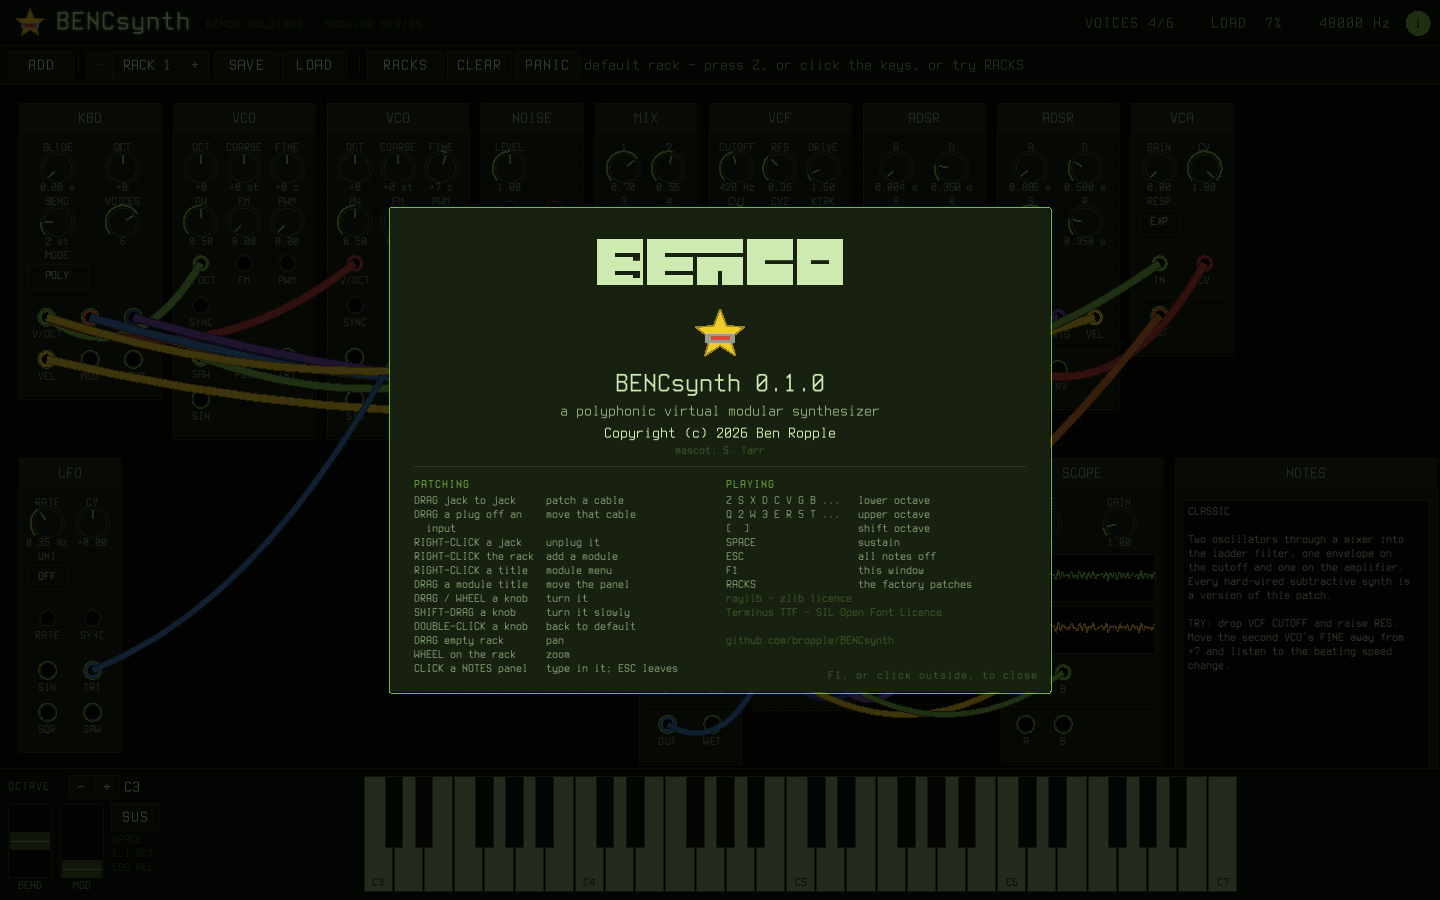
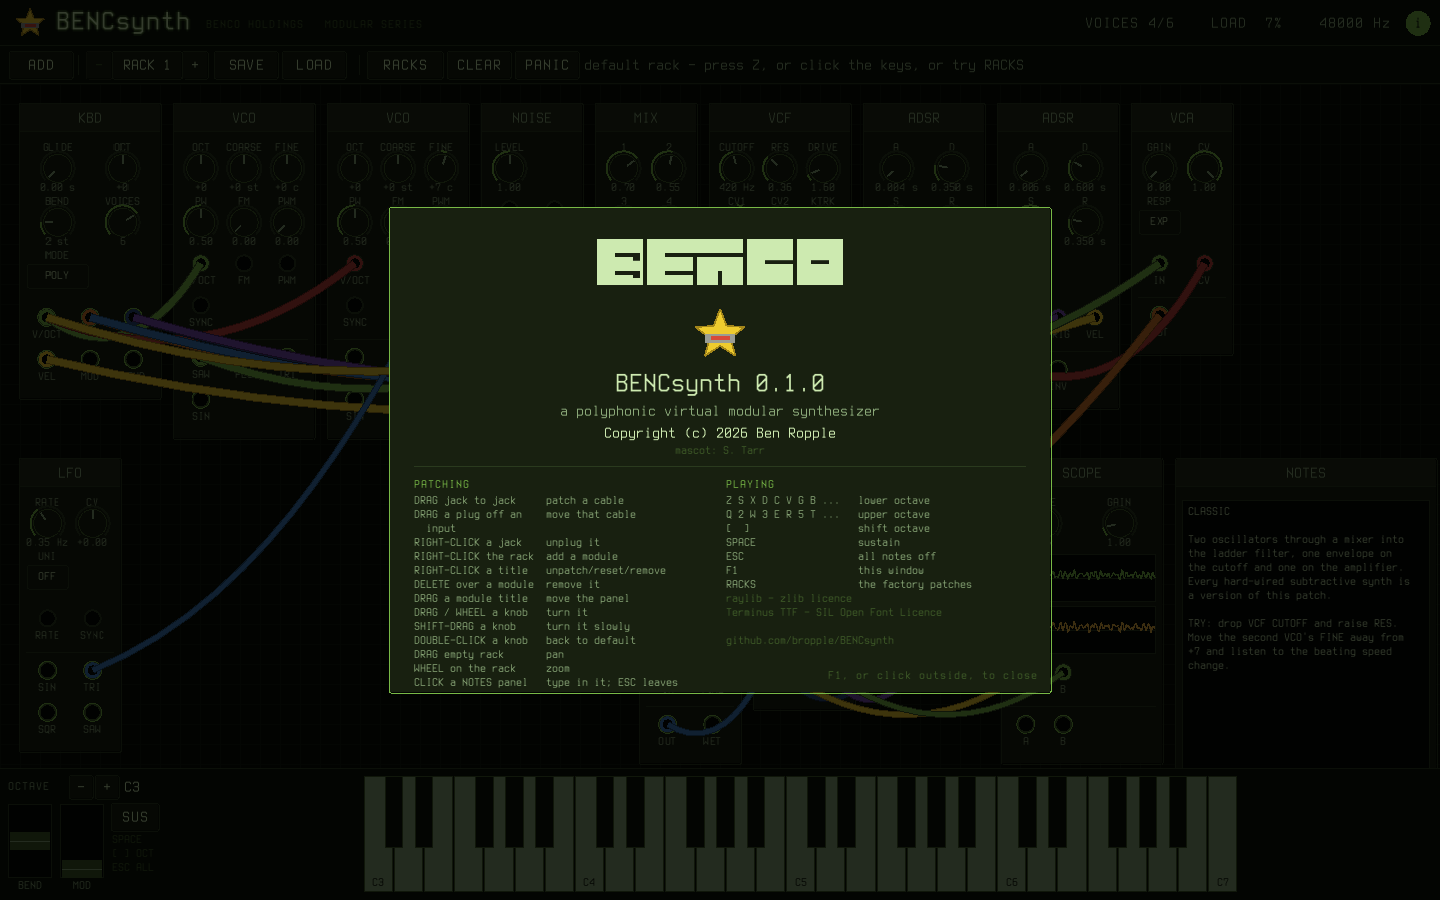
Make the right-click menus work, and add a way to delete a module
Right-clicking a module's title bar stripped its cables instead of opening a
menu. Two bugs stacked on top of each other.

The menu is opened by the right-button press, and a press is true for the whole
frame it happens on - so that same press reached bs_menu_take further down the
frame and chose from the menu it had just opened. The pointer was sitting at
the menu's own top-left corner, and (m.y - rect.y - 4) / 22 truncates from
-0.18 to 0, so it chose the first entry. On the module menu the first entry is
UNPATCH. The rack's add menu had it too, and instantly added a KBD.

Both are fixed: a menu records that it opened this frame and refuses to be
consumed until the next one, and the row calculation measures downward from the
first row's edge instead of truncating a negative toward it.

This is the third time the same shape of bug has shipped - the information
window was the other two - so it is written down in ARCHITECTURE.md now rather
than fixed again. Anything that opens on an edge must not be closed or chosen
from by that edge.

Delete now removes whatever the pointer is over. REMOVE was in the module menu
all along, but a menu is somewhere you have to think to look and the key is
what people try first.

Every gesture the help panel claims is now driven through tools/click-test.sh
and photographed rather than assumed: patching a cable, pulling a plug onto
another jack, right-clicking a jack to unplug it, the module menu and its
[…]

diff --git a/src/gui/bs_gui.cpp b/src/gui/bs_gui.cpp
@@ -734,6 +734,7 @@ void bs_menu_open(bs_ui *ui, Vector2 at, const char **items, int count, int tag)
     if (y < 4.0f) y = 4.0f;
 
     ui->menuOpen   = 1;
+    ui->menuFresh  = 1;
     ui->menuItems  = items;
     ui->menuCount  = count;
     ui->menuTag    = tag;
@@ -748,12 +749,26 @@ int bs_menu_take(bs_ui *ui, int *tag)
 {
     if (!ui->menuOpen) return -1;
 
-    const Vector2 m = bs_mouse();
+    const Vector2 m = GetMousePosition();
     ui->menuHover = -1;
-    if (CheckCollisionPointRec(m, ui->menuRect)) {
-        const int row = (int)((m.y - ui->menuRect.y - 4.0f) / (float)MENU_ROW);
-        if (row >= 0 && row < ui->menuCount) ui->menuHover = row;
+    /* Measured from the first row's top edge, and only downward. Dividing a
+     * small negative number by the row height and truncating gives zero, so a
+     * pointer just *above* the list reads as being on its first entry - which
+     * is how a right-click that opened a menu at the pointer ended up
+     * selecting the item under the pointer's own corner. */
+    const float rel = m.y - ui->menuRect.y - 4.0f;
+    if (rel >= 0.0f && CheckCollisionPointRec(m, ui->menuRect)) {
+        const int row = (int)(rel / (float)MENU_ROW);
+        if (row < ui->menuCount) ui->menuHover = row;
     }
+
+    /* A press is true for the whole frame it happens on, and the menus opened
+     * by a right-click on a panel or on the rack are opened by one - so
+     * without this, that same press reaches here further down the frame and
+     * chooses from the menu it just opened. The module menu's first entry is
+     * UNPATCH, which is why right-clicking a title bar appeared to strip its
+     * cables instead of offering anything. */
+    if (ui->menuFresh) { ui->menuFresh = 0; return -1; }
 
     if (IsMouseButtonPressed(MOUSE_BUTTON_LEFT) ||
         IsMouseButtonPressed(MOUSE_BUTTON_RIGHT)) {

diff --git a/src/gui/bs_rack.cpp b/src/gui/bs_rack.cpp
@@ -171,6 +171,8 @@ void bs_rack_init(bs_rack *r)
     r->menuRackPos = (Vector2){ 0, 0 };
     r->edited = 0;
     r->presetLoaded = -1;
+    r->deleteRequest = -1;
+    r->deleteRequest = -1;
     buildAddMenu();
     buildPresetMenu();
 }
@@ -228,6 +230,7 @@ void bs_rack_frame(bs_rack *r, bs_ui *ui, bs::Engine *eng, Rectangle view, float
 
     r->edited = 0;
     r->presetLoaded = -1;
+    r->deleteRequest = -1;
 
     if (r->zoom < 0.35f) r->zoom = 0.35f;
     if (r->zoom > 2.50f) r->zoom = 2.50f;
@@ -598,6 +601,15 @@ void bs_rack_frame(bs_rack *r, bs_ui *ui, bs::Engine *eng, Rectangle view, float
     if (r->scrollX > maxScrollX) r->scrollX = maxScrollX;
     if (r->scrollY > maxScrollY) r->scrollY = maxScrollY;
 
+    /* Delete takes out whatever the pointer is over. The module menu has a
+     * REMOVE entry and always did, but a menu is somewhere you have to think
+     * to look; the key is what people try first. Not while a scratchpad has
+     * the keyboard, where Delete means delete a character. */
+    if (overView && top >= 0 && !r->patching && ui->focus == 0 &&
+        IsKeyPressed(KEY_DELETE)) {
+        r->deleteRequest = top;
+    }
+
     /* ---- the add menu ---- */
 
     if (overView && top == -1 && hoverMod == -1 && !r->patching &&
@@ -612,6 +624,13 @@ void bs_rack_frame(bs_rack *r, bs_ui *ui, bs::Engine *eng, Rectangle view, float
 
 int bs_rack_menu(bs_rack *r, bs_ui *ui, bs::Engine *eng)
 {
+    if (r->deleteRequest >= 0) {
+        eng->removeModule(r->deleteRequest);
+        r->deleteRequest = -1;
+        r->edited = 1;
+        return 1;
+    }
+
     int tag = 0;
     const int hit = bs_menu_take(ui, &tag);
     if (hit < 0) return 0;

diff --git a/src/gui/bs_gui.h b/src/gui/bs_gui.h
@@ -90,6 +90,10 @@ typedef struct bs_ui {
     int       menuHover;
     Vector2   menuAnchor;
     int       menuTag;      /* what the menu belongs to, for the caller  */
+    /* Set on the frame a menu opens. A menu opened by a button press would
+     * otherwise be chosen from by that same press, which is still "pressed"
+     * for the rest of the frame - see bs_menu_take. */
+    int       menuFresh;
 
     /* Set for one frame when a control changed, so the caller can mark the
      * patch dirty without every widget returning a tuple. */

diff --git a/src/gui/main.cpp b/src/gui/main.cpp
@@ -169,7 +169,8 @@ static int draw_info(bs_ui *ui, Rectangle screen)
         "  input",
         "RIGHT-CLICK a jack    unplug it",
         "RIGHT-CLICK the rack  add a module",
-        "RIGHT-CLICK a title   module menu",
+        "RIGHT-CLICK a title   unpatch/reset/remove",
+        "DELETE over a module  remove it",
         "DRAG a module title   move the panel",
         "DRAG / WHEEL a knob   turn it",
         "SHIFT-DRAG a knob     turn it slowly",

diff --git a/src/gui/bs_rack.h b/src/gui/bs_rack.h
@@ -69,6 +69,11 @@ typedef struct bs_rack {
      * menus, so it is the rack that acts on the choice; the window only wants
      * to know so it can say which one arrived. */
     int presetLoaded;
+
+    /* A module the pointer was over when Delete was pressed. Acted on after
+     * the frame, because removing one mid-pass would free a panel the loop is
+     * still walking. */
+    int deleteRequest;
 } bs_rack;
 
 void bs_rack_init(bs_rack *r);

diff --git a/ARCHITECTURE.md b/ARCHITECTURE.md
@@ -239,6 +239,33 @@ around the centre means the thing you were looking at slides away and you chase
 it with the other hand. Since scroll *is* the rack point at the viewport's top
 left, keeping the point under the cursor fixed pins the new scroll exactly.
 
+## One bug, three times
+
+A mouse press or release is true for the *whole frame* it happens on. Anything
+that opens a thing on one edge, and then later in the same frame asks whether
+that edge happened, will find that it did - and act on it.
+
+It shipped three times before the pattern was named:
+
+- The information window opened on a click and was dismissed by the same click,
+  because the dismiss test ran further down the frame and found the pointer
+  outside the panel.
+- The module and rack menus were opened by a right-click and chosen from by
+  that same right-click, in `bs_menu_take` further down the frame. Worse, the
+  pointer sat at the menu's own top-left corner, and `(m.y - rect.y - 4) / 22`
+  truncates from `-0.18` to `0` - so it selected the first entry. On the module
+  menu that entry was UNPATCH, and right-clicking a title bar appeared to strip
+  the module's cables rather than offer a menu.
+
+The rule now: whatever opens on an edge sets a flag saying it opened this
+frame, and whatever consumes that edge checks the flag first. `menuFresh` does
+this for menus and a local `justOpened` does it for the information window.
+Anything that starts *and finishes* inside one frame - a button, a knob grab -
+is not affected, which is why buttons were always fine.
+
+Two of the three were invisible on the page and obvious the moment a real click
+was sent, which is what `tools/click-test.sh` is for.
+
 ## Testing what can be wrong quietly
 
 `tests/test_core.cpp` runs against the same objects the synthesizer runs on,

diff --git a/README.md b/README.md
@@ -99,6 +99,7 @@ far down a key you click sets the velocity.
 | right-click a jack | unplug it |
 | right-click the rack | add a module |
 | right-click a module title | unpatch / reset knobs / remove |
+| `DELETE` over a module | remove it |
 | drag a module title | move the panel |
 | drag, or wheel, on a knob | turn it |
 | shift-drag a knob | turn it slowly |
